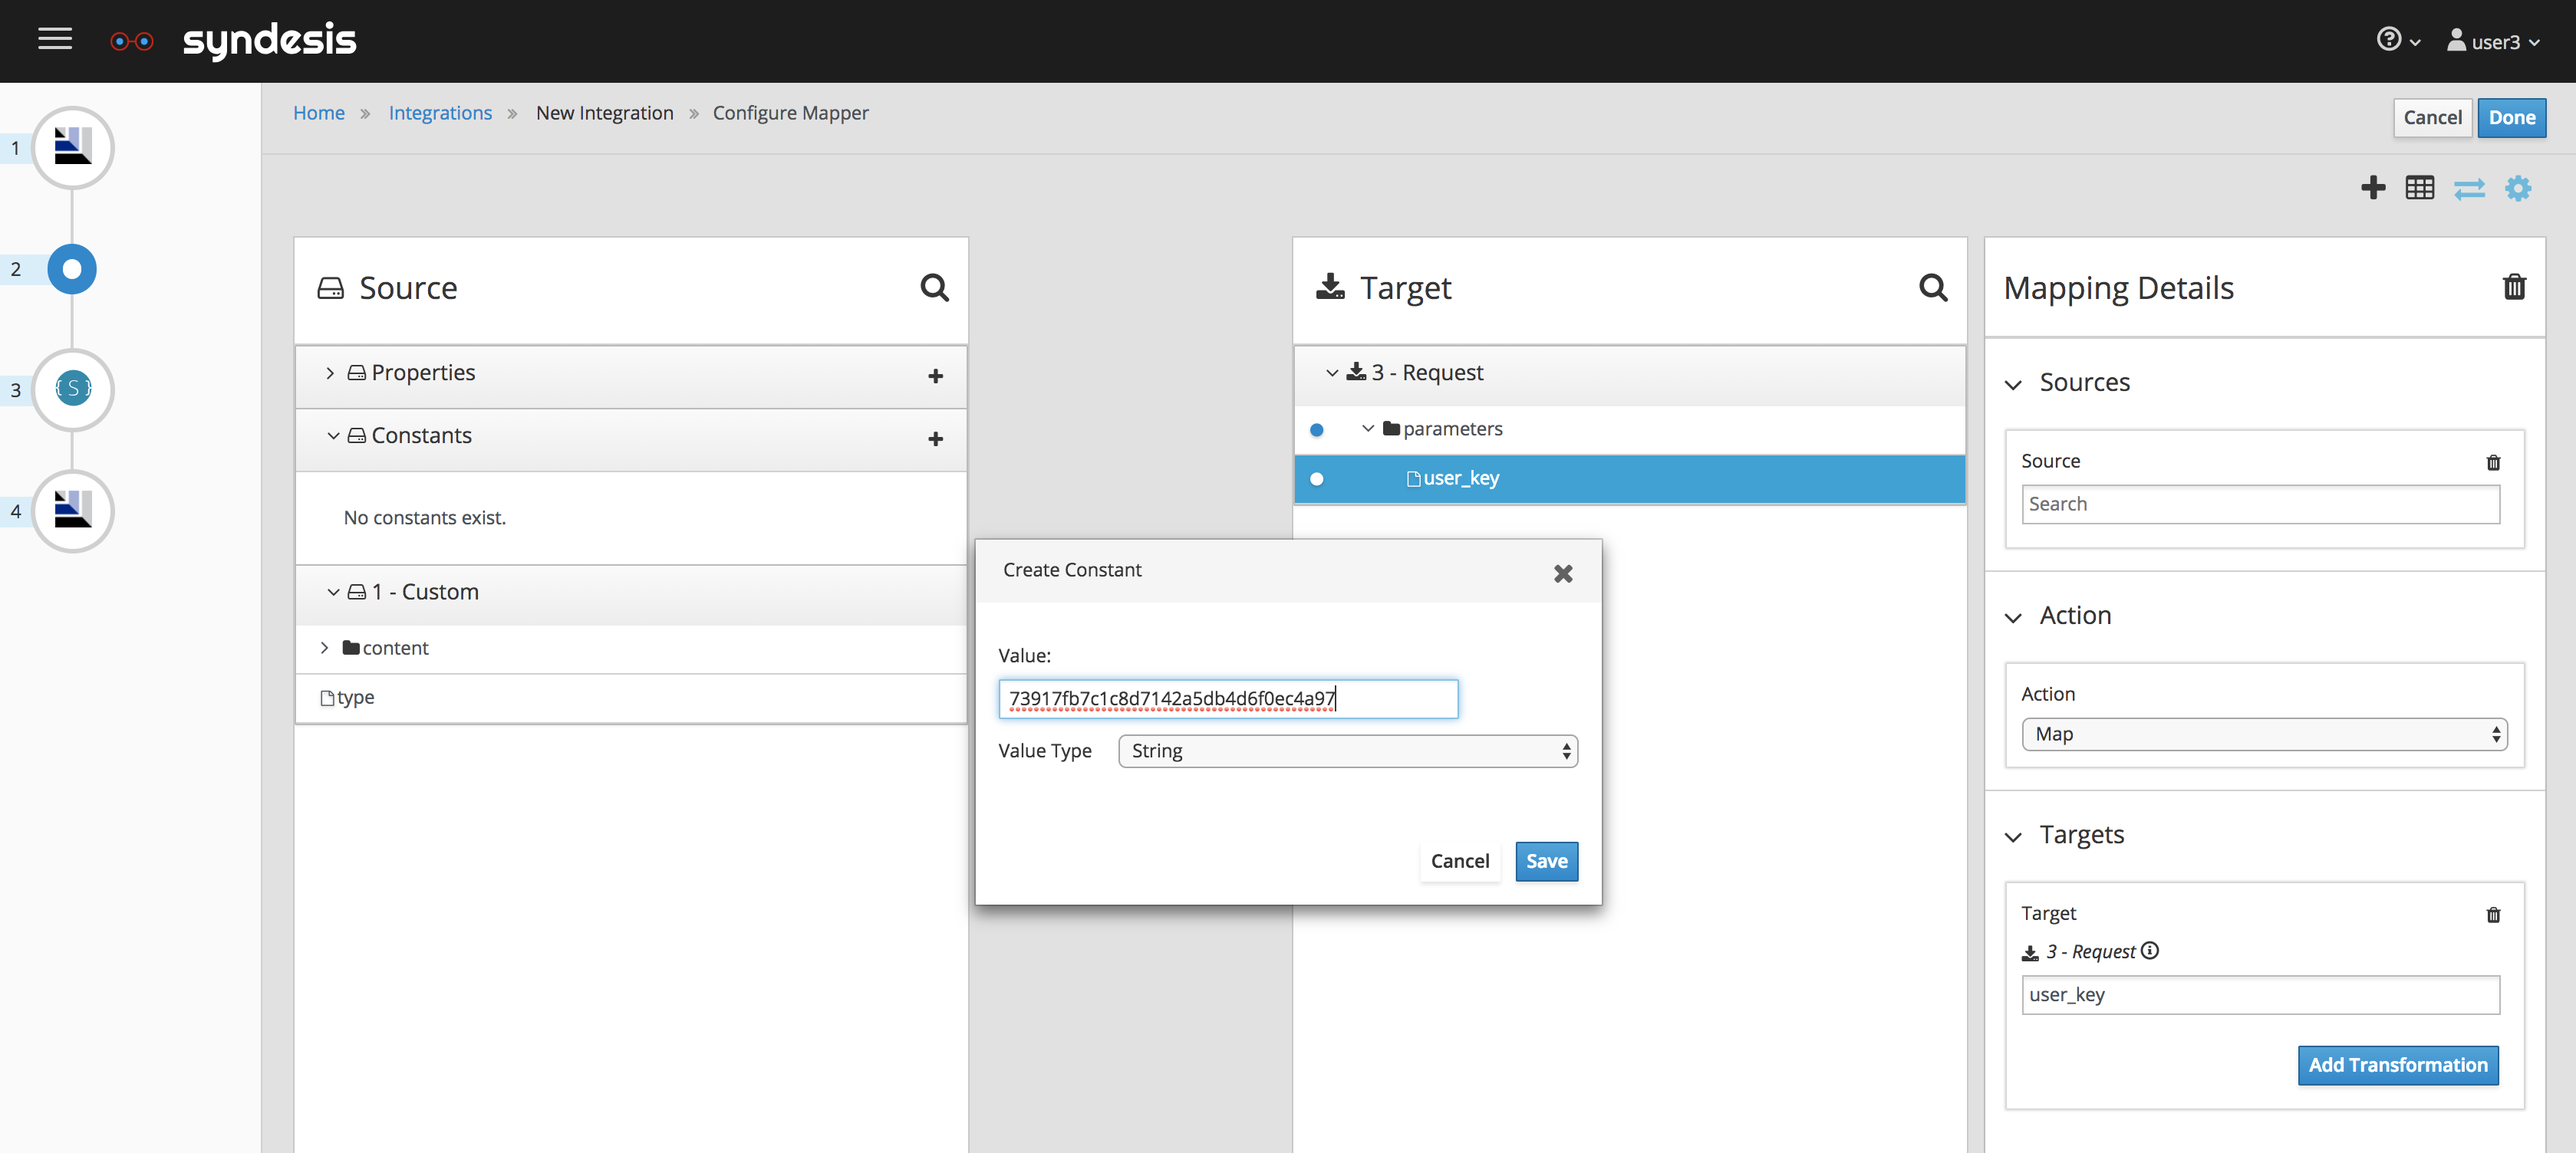
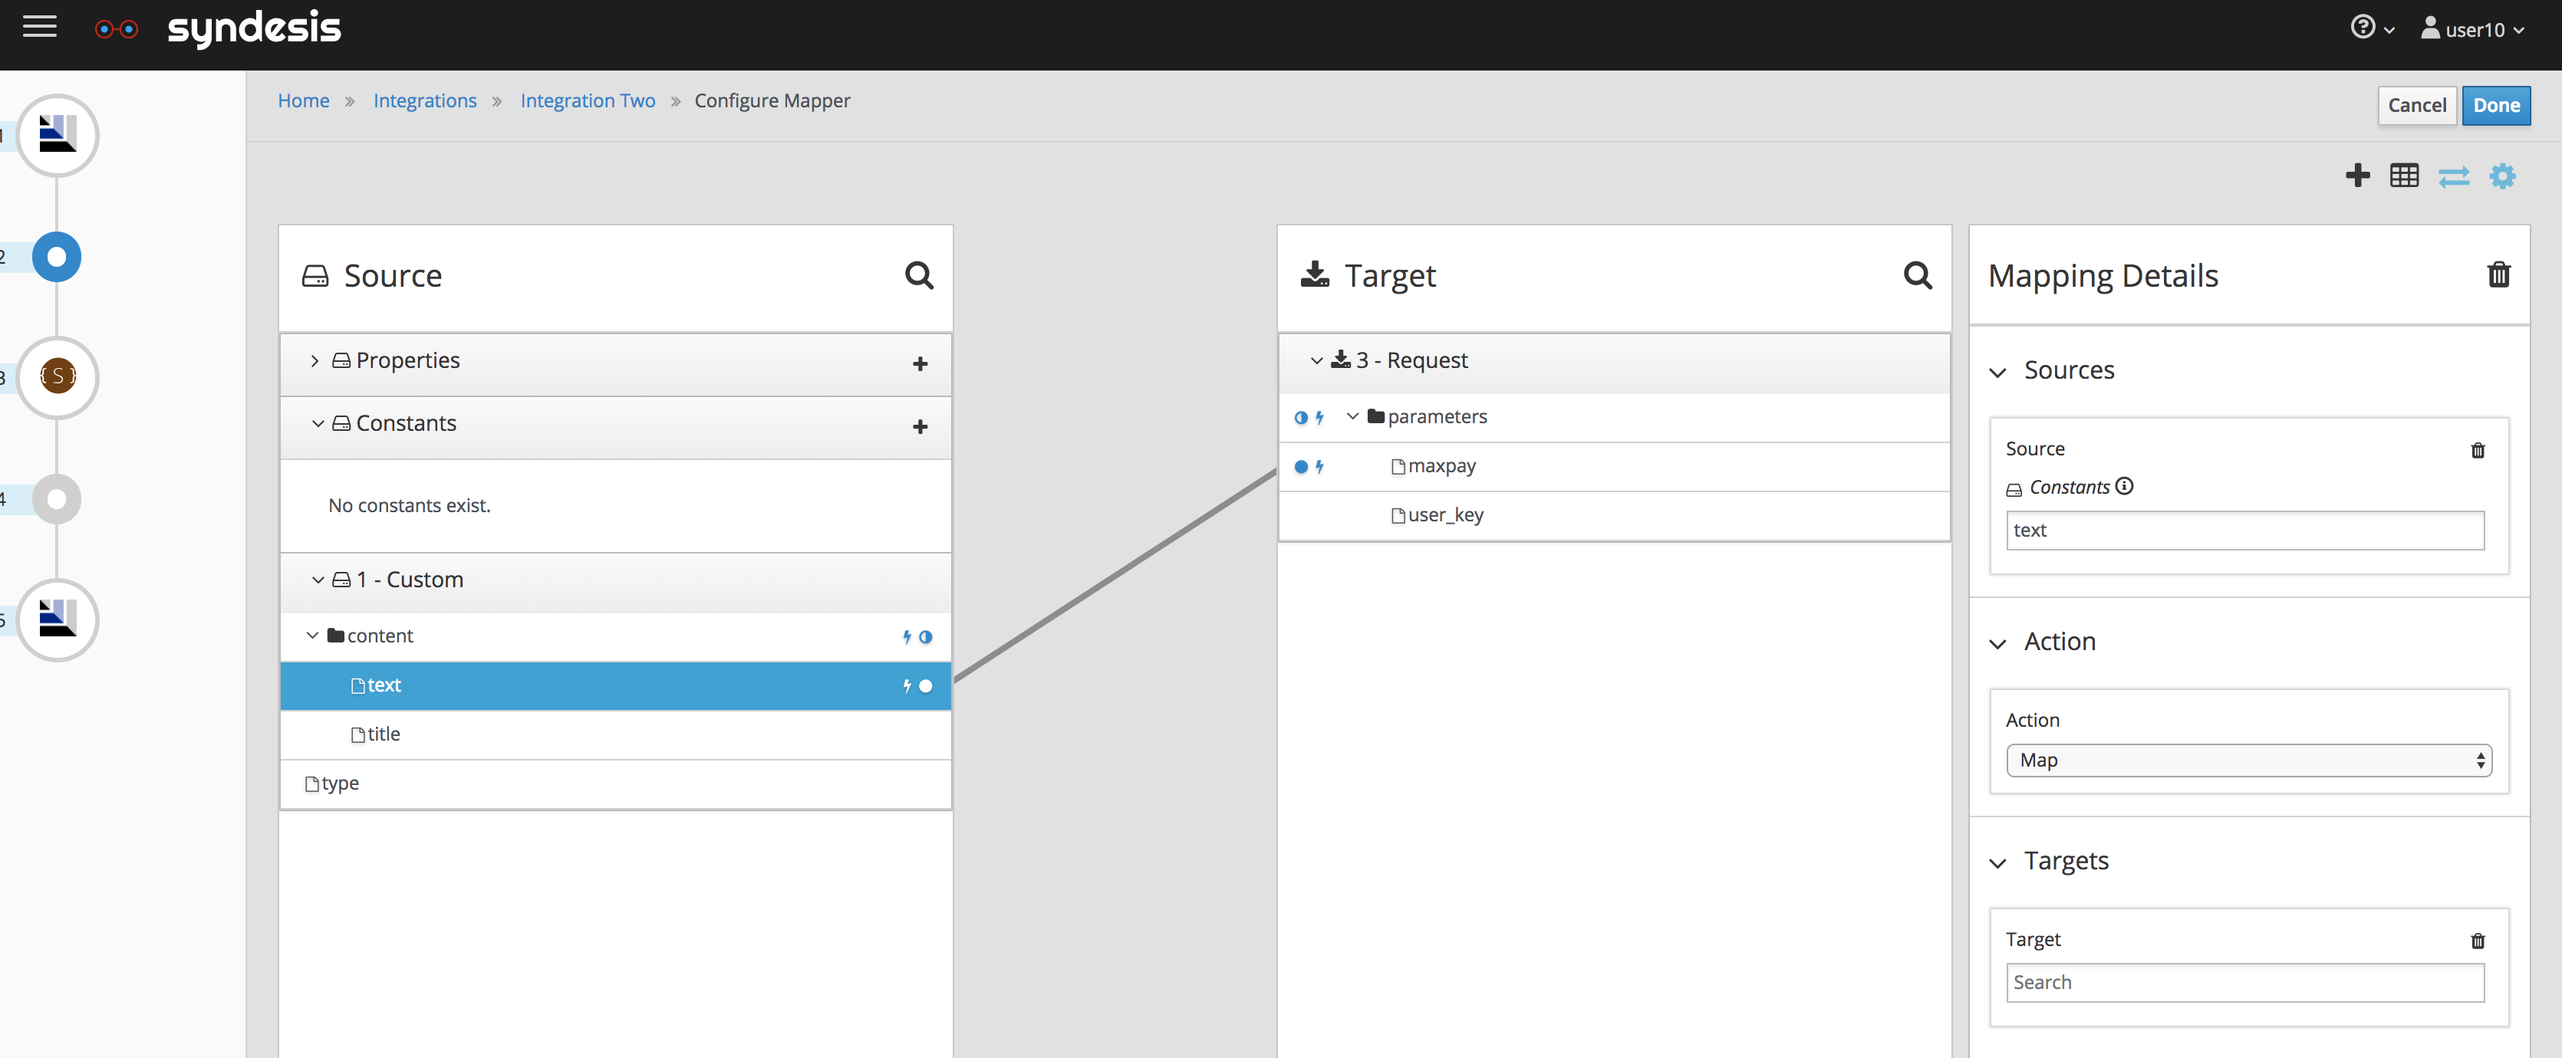
Add instruction to Hack two

diff --git a/Hack-02.md b/Hack-02.md
@@ -2,38 +2,36 @@
 
 -Instructor lead-
 
-Showing all Parking locations has the most cheap rate
+Search all parking spot with specified rate (Integer)
 
 ![Second Hack](docs/images/hack-02-01.png)
 
 
+- **Create new integration**. Select the **Integration** on the side menu, and click **Create Integration** button on the top right hand corner.
 
 ![Integration hack two](docs/images/hacktwo-integration-01.png)
+
+- Click on the AMQP Connector.
+- 
 ![Integration hack two](docs/images/hacktwo-integration-02.png)
+
+- Select < YOUR_BROKER_CONNECTION > .
+
 ![Integration hack two](docs/images/hacktwo-integration-03.png)
+
+- Select *subscribe for messages action*. 
+
 ![Integration hack two](docs/images/hacktwo-integration-04.png)
-![Integration hack two](docs/images/hacktwo-integration-05.png)
-![Integration hack two](docs/images/hacktwo-integration-06.png)
-![Integration hack two](docs/images/hacktwo-integration-07.png)
-![Integration hack two](docs/images/hacktwo-integration-08.png)
-![Integration hack two](docs/images/hacktwo-integration-09.png)
-![Integration hack two](docs/images/hacktwo-integration-10.png)
-![Integration hack two](docs/images/hacktwo-integration-11.png)
-![Integration hack two](docs/images/hacktwo-integration-12.png)
-![Integration hack two](docs/images/hacktwo-integration-13.png)
-![Integration hack two](docs/images/hacktwo-integration-14.png)
-![Integration hack two](docs/images/hacktwo-integration-15.png)
-![Integration hack two](docs/images/hacktwo-integration-16.png)
-![Integration hack two](docs/images/hacktwo-integration-17.png)
-![Integration hack two](docs/images/hacktwo-integration-18.png)
-![Integration hack two](docs/images/hacktwo-integration-19.png)
-![Integration hack two](docs/images/hacktwo-integration-20.png)
-![Integration hack two](docs/images/hacktwo-integration-21.png)
-![Integration hack two](docs/images/hacktwo-integration-22.png)
-![Integration hack two](docs/images/hacktwo-integration-23.png)
 
-- From broker connection with following datashapes
+- Configure the name of the queue to listen
+	- Destination Name: inputs
+	- Destination Type: Queue 
+![Integration hack one](docs/images/hackone-integration-04.png)
 
+- Configure the Output data type,  
+  	- Select Type: JSON Instance
+	- Definition: 
+	
 ```
 {
   "type": "announcement",
@@ -44,12 +42,26 @@ Showing all Parking locations has the most cheap rate
 }
 ```
 
-- Data Mapper 
+![Integration hack two](docs/images/hacktwo-integration-05.png)
 
-(TBA) Screen Shoot
+- For end connector setting, and select the < YOUR_BROKER_CONNECTION > 
 
-- To externalbroker connection with following datashapes
+![Integration hack two](docs/images/hacktwo-integration-06.png)
 
+- Select *Publish messages action*.
+
+![Integration hack two](docs/images/hacktwo-integration-07.png)
+
+- Configure the name of the queue to listen
+	- Destination Name: locations
+	- Destination Type: Queue 
+	
+![Integration hack two](docs/images/hacktwo-integration-08.png)
+
+- Configure the Output data type,  
+  	- Select Type: JSON Instance
+	- Definition: 
+	
 ```
 [
    {
@@ -72,4 +84,86 @@ Showing all Parking locations has the most cheap rate
    }
 ]
 
-```
+```	
+![Integration hack two](docs/images/hacktwo-integration-09.png)
+
+- Select *Add a Connection* in the center
+![Integration hack two](docs/images/hacktwo-integration-10.png)
+
+- Select parking-sf (or Parking depends on how you name your Parking API Service connection)
+
+![Integration hack two](docs/images/hacktwo-integration-11.png)
+
+- Select **Get Parking place base on hourly rate** action
+![Integration hack two](docs/images/hacktwo-integration-12.png)
+
+- Click on **Done**
+![Integration hack two](docs/images/hacktwo-integration-13.png)
+
+- On the integration route menu, hover over the **+** sign between first two connection, click on **Add a Step**
+
+![Integration hack two](docs/images/hacktwo-integration-14.png)
+
+- Select **Data Mapper** Step
+
+![Integration hack two](docs/images/hacktwo-integration-15.png)
+
+- Map from Source -> content -> text **to** Target -> Request -> Parameter -> maxpay
+
+![Integration hack two](docs/images/hacktwo-integration-16.png)
+
+- Add a contant value in Source, by clicking in the Source column **"+"** of *Constants* drop down menu. 
+	- 73917fb7c1c8d7142a5db4d6f0ec4a97
+	- This value comes from the key we need to access the API
+	
+	| API Service Name | User Key |
+	|------------------|----------|
+	| **Restaurant Locations** | d2b8f9e059c2bbfc1a5c7b1cb8115d60 |
+	| **ATM Locations** |  b88456bf863608f5b79324eae13a4e46 |
+	| **Parking locations** | 73917fb7c1c8d7142a5db4d6f0ec4a97 |
+	| **Bar locations** |  f6ba725532f6797d5dc7afbf8c012c20 |	| **Store locations** | b62940ff7a175691e0396b28ceaa0bf4 |
+- Map the constant that we just created **to** Target -> Request -> Parameter -> user_key and click on **Done**
+
+![Integration hack two](docs/images/hacktwo-integration-17.png)
+![Integration hack two](docs/images/hacktwo-integration-17-1.png)
+
+- On the integration route menu, hover over the **+** sign between last two connection, click on **Add a Connection**
+
+![Integration hack two](docs/images/hacktwo-integration-18.png)
+
+- Select the location-list-format
+
+![Integration hack two](docs/images/hacktwo-integration-19.png)
+
+- Make sure the location type is set to **Parking** and click **Next**
+
+![Integration hack two](docs/images/hacktwo-integration-20.png)
+
+- Click **Finish** 
+
+![Integration hack two](docs/images/hacktwo-integration-21.png)
+
+- Give a name to the route and click **Finish**
+
+![Integration hack two](docs/images/hacktwo-integration-22.png)
+
+- Go to your UI, *http://www-hackathon-ui-<USER_NAME>.apps.<ID>.openshift.opentlc.com/*
+,in the input panel enter: 
+ 	- Type: Location, 
+	- Title: Parking less than 4 dollars
+	- Text: 4
+	
+ and you should be able to see the location return from the service in the map. 
+ 
+![Integration hack two](docs/images/hacktwo-integration-23.png)
+
+- Testing again, this time, with limit 5
+	- Type: Location, 
+	- Title: Parking less than 5 dollars
+	- Text: 5x
+
+![Integration hack two](docs/images/hacktwo-integration-24.png)
+
+
+
+

diff --git a/Hack-01.md b/Hack-01.md
@@ -65,7 +65,7 @@ Select the **Connections** on the side menu, and click on **Add Connection** but
 
 - Configure the name of the queue to listen
 	- Destination Name: notifications
-	- Destination Type: Queue 
+	- Destination Type: Topic 
 ![Integration hack one](docs/images/hackone-integration-08.png)
 
 - Configure the Output data type,  
@@ -94,7 +94,7 @@ Select the **Connections** on the side menu, and click on **Add Connection** but
 
 - Drag and connect from Source to Target and click in **Done**
 	- Custom -> Content -> text **to** message
-	- Constants -> <YOUR_NAME>  **to** header
+	- Custom -> Content -> title  **to** header
 	- Constants -> Warning **to** type 
 ![Integration hack one](docs/images/hackone-integration-13.png)
 
@@ -102,7 +102,10 @@ Select the **Connections** on the side menu, and click on **Add Connection** but
 ![Integration hack one](docs/images/hackone-integration-14.png)
 
 - Go to your UI, *http://www-hackathon-ui-<USER_NAME>.apps.<ID>.openshift.opentlc.com/*
-,in the input panel, select Annoucement, and save your input.
+,in the input panel, 
+	- Tyoe: Annoucement
+	- Titles: < YOUR_NAME >
+	- Text: Hello
 
 ![Integration hack one](docs/images/hackone-integration-15.png)
 
